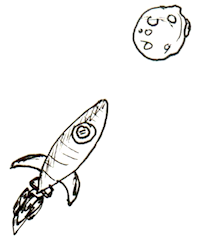
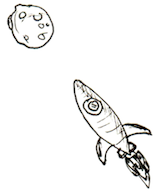
new front page

Changed region(s): [[0.0312, 0.4021, 0.9688, 0.9897], [0.6562, 0.0, 0.9688, 0.2784], [0.0312, 0.0, 0.3438, 0.2784]]

diff --git a/app/assets/stylesheets/generic/images.css.sass b/app/assets/stylesheets/generic/images.css.sass
@@ -12,13 +12,13 @@
 .cat
   position: absolute
   right: -70px
-  top: 260px
+  top: 240px
   z-index: -1
 
 .rocket
   position: absolute
-  right: 70px
-  top: 130px
+  right: -150px
+  top: -30px
   z-index: -1
 
 .three
@@ -26,3 +26,13 @@
   left: -150px
   bottom: -130px
   z-index: -1
+
+.headphones
+  +rotate(-30deg)
+  left: 220px
+  bottom: 10px
+  z-index: -1
+
+
+.tea
+  left: 30px

diff --git a/app/assets/stylesheets/modules/header.css.sass b/app/assets/stylesheets/modules/header.css.sass
@@ -8,7 +8,7 @@
 .logo
   font-size: 24px
   text-align: center
-  margin-top: -150px
+  margin-top: 0
   display: block
   img
     height: 300px
